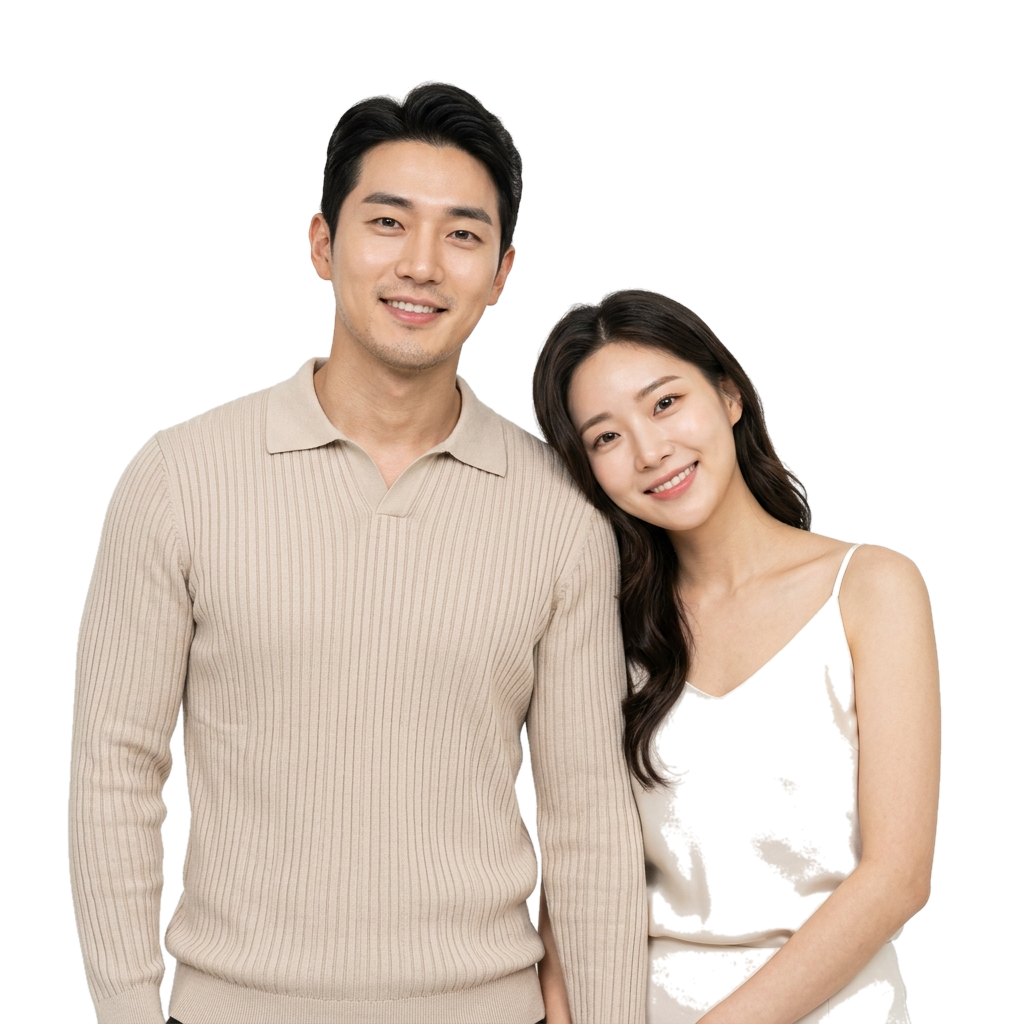
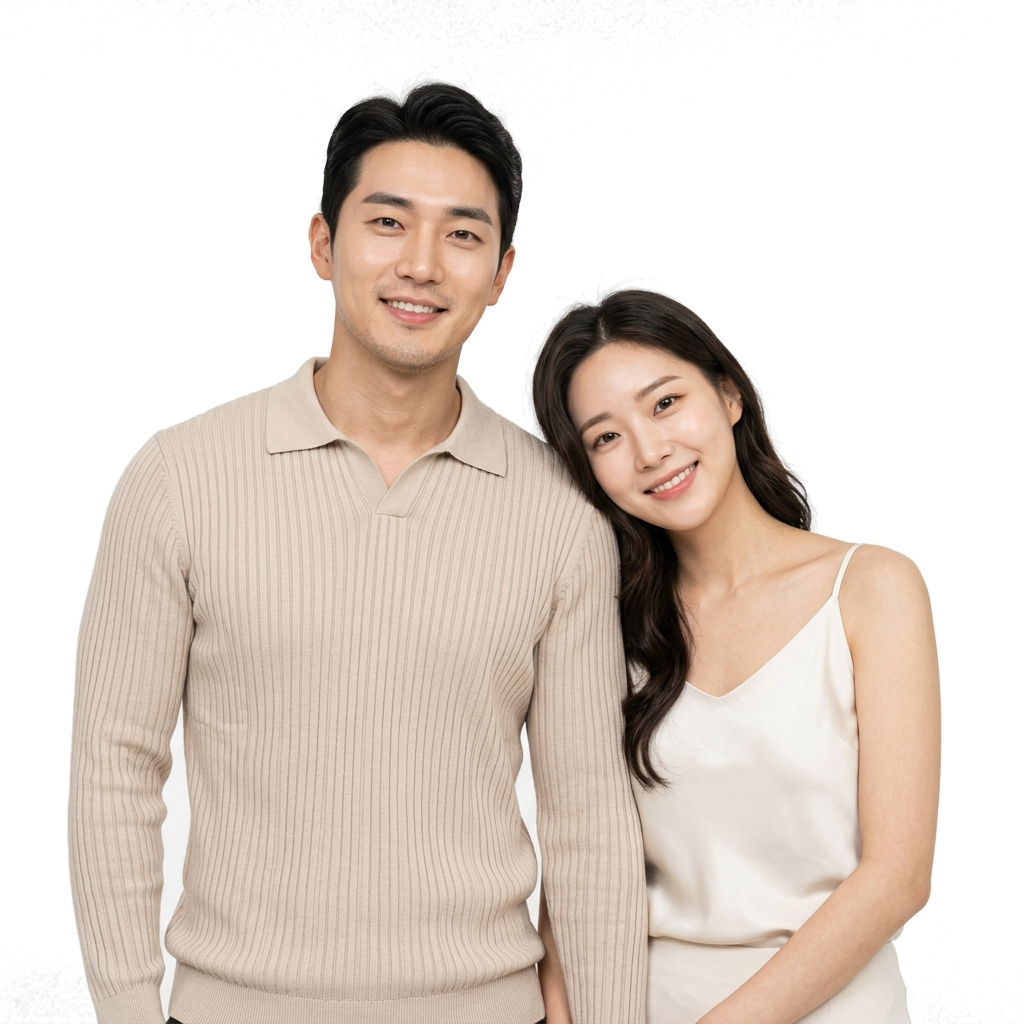
Fix female dress alpha channel mask and align hero couple image flush to bottom

Changed region(s): [[0.625, 0.625, 0.8438, 1.0], [0.7812, 0.9375, 0.875, 1.0]]

diff --git a/medical-weight-loss-dallas.html b/medical-weight-loss-dallas.html
@@ -62,9 +62,9 @@
                     </div>
                 </div>
                 
-                <!-- Right Couple Column (Waist-Up Transparent PNG Cutout on Soft Architectural Arch) -->
-                <div class="lg:col-span-6 relative flex justify-center lg:justify-end animate-on-scroll fade-left delay-100">
-                    <div class="relative w-full max-w-[480px] h-[480px] sm:h-[540px] flex items-center justify-center">
+                <!-- Right Couple Column (Waist-Up Transparent PNG Cutout Bottom Aligned on Soft Architectural Arch) -->
+                <div class="lg:col-span-6 relative flex justify-center lg:justify-end items-end animate-on-scroll fade-left delay-100">
+                    <div class="relative w-full max-w-[480px] h-[480px] sm:h-[560px] flex items-end justify-center">
                         <!-- Soft Light Architectural Arch Backdrop -->
                         <div class="absolute inset-x-6 bottom-0 top-8 rounded-t-full bg-gradient-to-b from-white/90 via-white/50 to-transparent border border-white/80 shadow-[0_15px_45px_rgba(170,152,124,0.15)] backdrop-blur-sm"></div>
                         <div class="absolute inset-x-10 bottom-0 top-12 rounded-t-full border border-[#AA987C]/20 pointer-events-none"></div>
@@ -74,8 +74,8 @@
                             <span class="font-serif tracking-widest text-2xl uppercase text-[#AA987C] font-light">SuA Glow</span>
                         </div>
 
-                        <!-- Isolated Transparent PNG Waist-Up Couple Cutout -->
-                        <img src="assets/body-reset-couple-waist-up-transparent.png" alt="SuA Glow Korean Body Reset Couple" class="relative z-10 max-h-full object-contain filter drop-shadow-[0_15px_30px_rgba(0,0,0,0.12)] transform hover:scale-102 transition-transform duration-700">
+                        <!-- Isolated Transparent PNG Waist-Up Couple Cutout Aligned Flush to Bottom -->
+                        <img src="assets/body-reset-couple-waist-up-transparent.png" alt="SuA Glow Korean Body Reset Couple" class="relative z-10 max-h-full w-auto object-contain object-bottom drop-shadow-[0_15px_30px_rgba(0,0,0,0.12)] transform hover:scale-102 transition-transform duration-700">
                     </div>
                 </div>
             </div>
